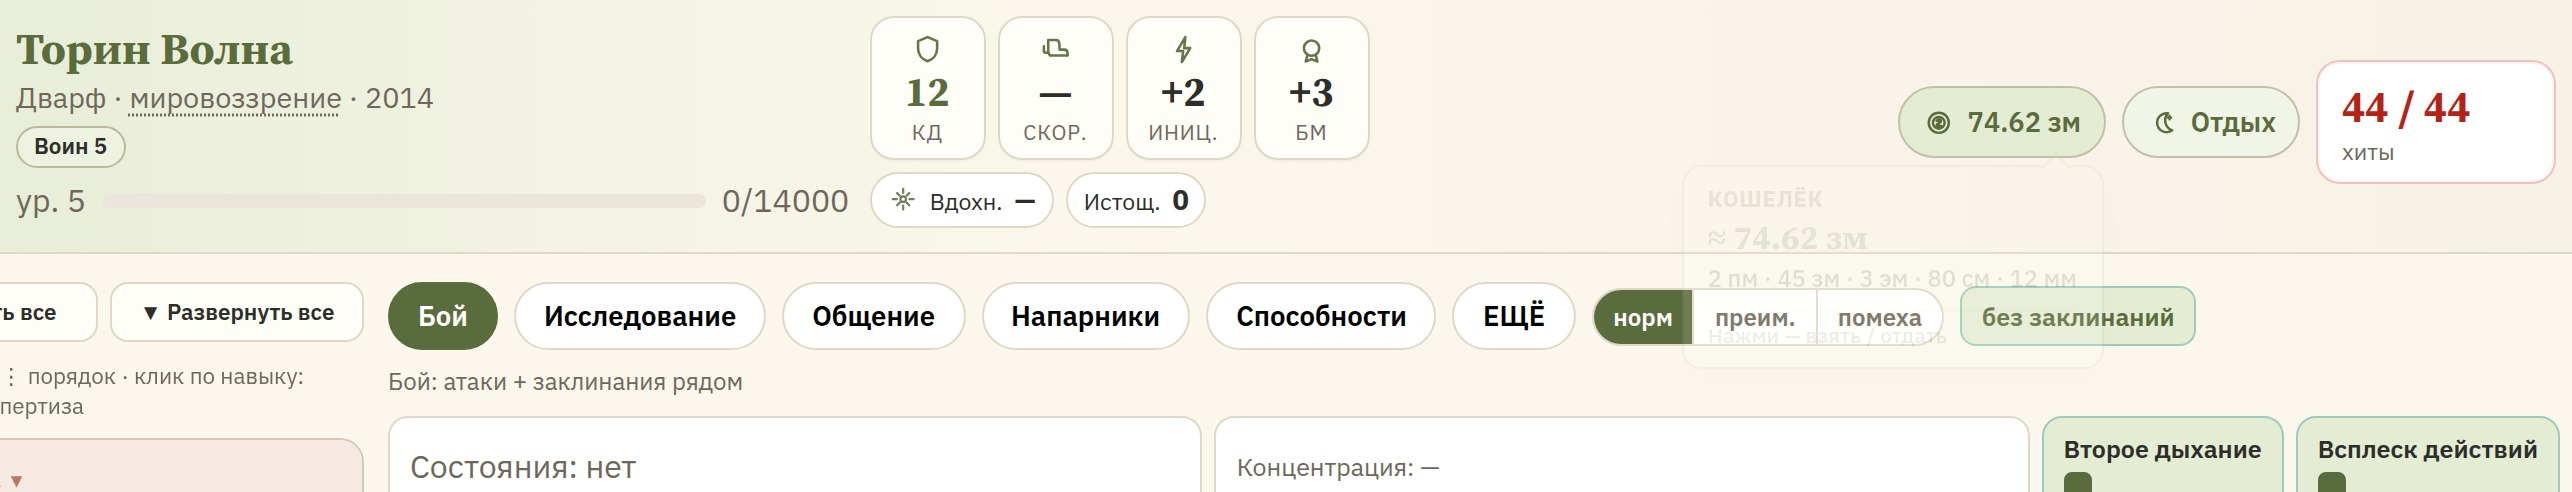
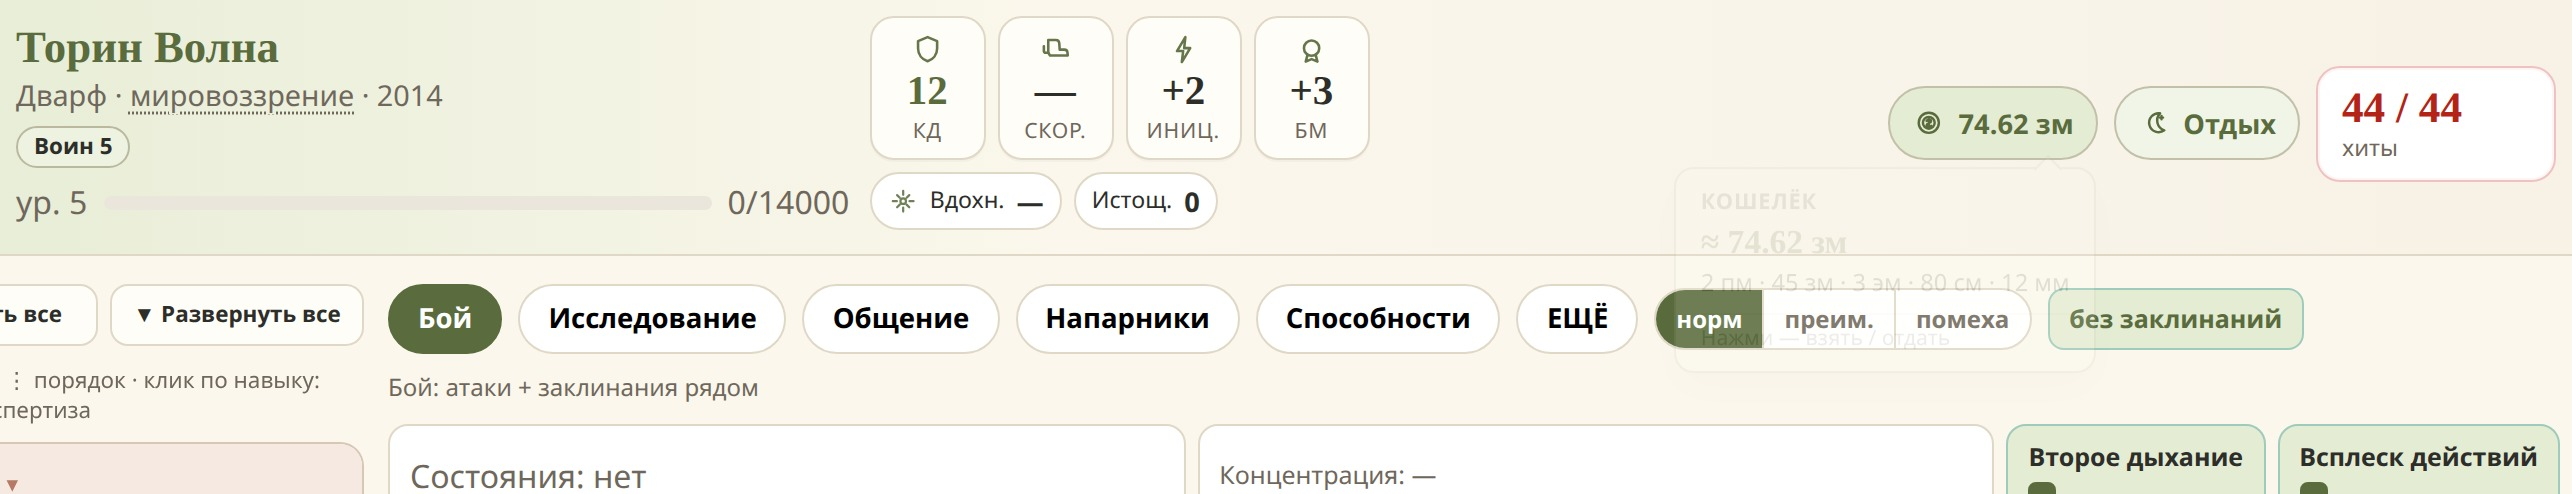
fix(header): keep coin tip above modes bar

diff --git a/frontend/src/index.css b/frontend/src/index.css
@@ -4408,12 +4408,18 @@ input {
 }
 
 .play-desk-header {
+  position: relative;
   display: grid;
   grid-template-columns: minmax(180px, 1.2fr) minmax(220px, 1.4fr) minmax(180px, 1fr);
   gap: 10px;
   align-items: center;
   min-width: 0;
   overflow: visible;
+}
+
+.play-desk-header:has(.play-desk-header__coin:hover),
+.play-desk-header:has(.play-desk-header__coin:focus-visible) {
+  z-index: 8;
 }
 
 .play-desk-header__who {
@@ -4738,6 +4744,11 @@ button.play-desk-vital:hover {
 .play-desk-header__coin {
   position: relative;
   z-index: 2;
+}
+
+.play-desk-header__coin:hover,
+.play-desk-header__coin:focus-visible {
+  z-index: 60;
 }
 
 .play-desk-header__coin:hover,
